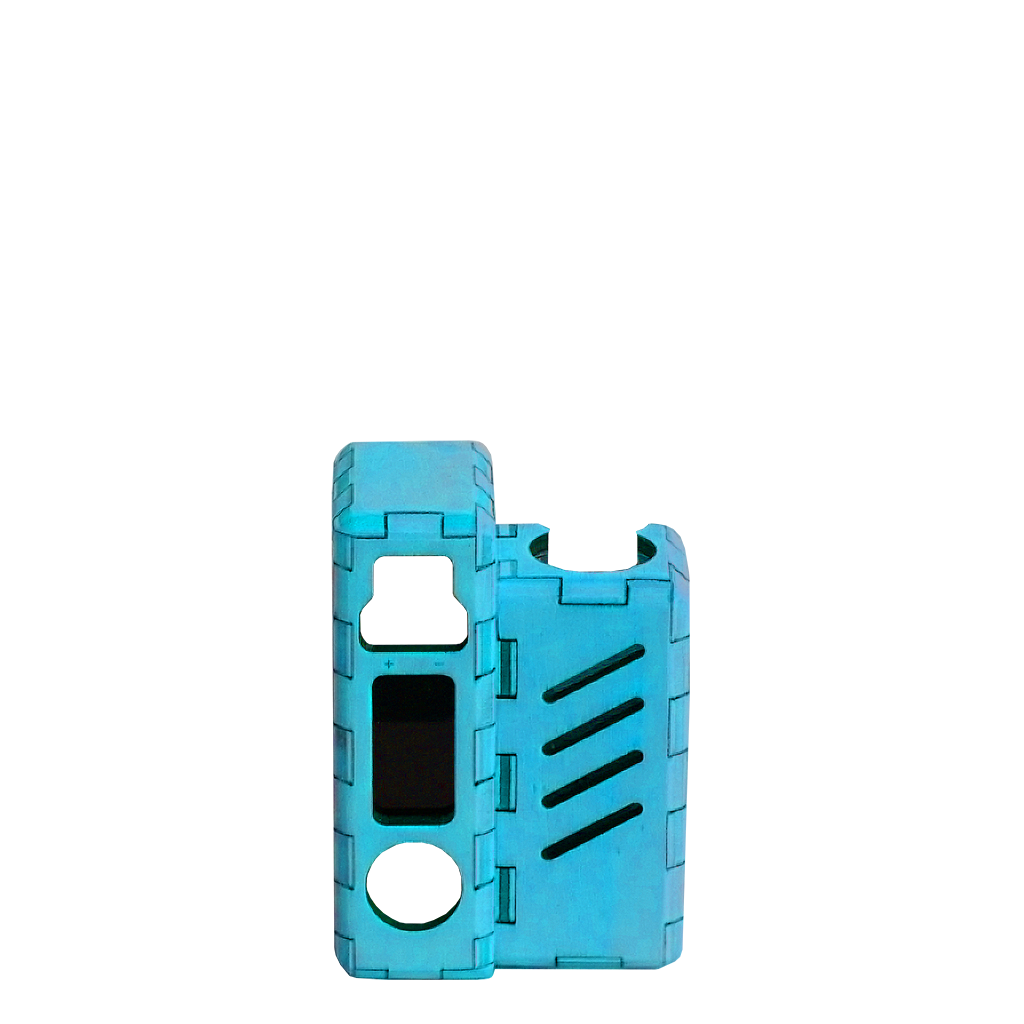
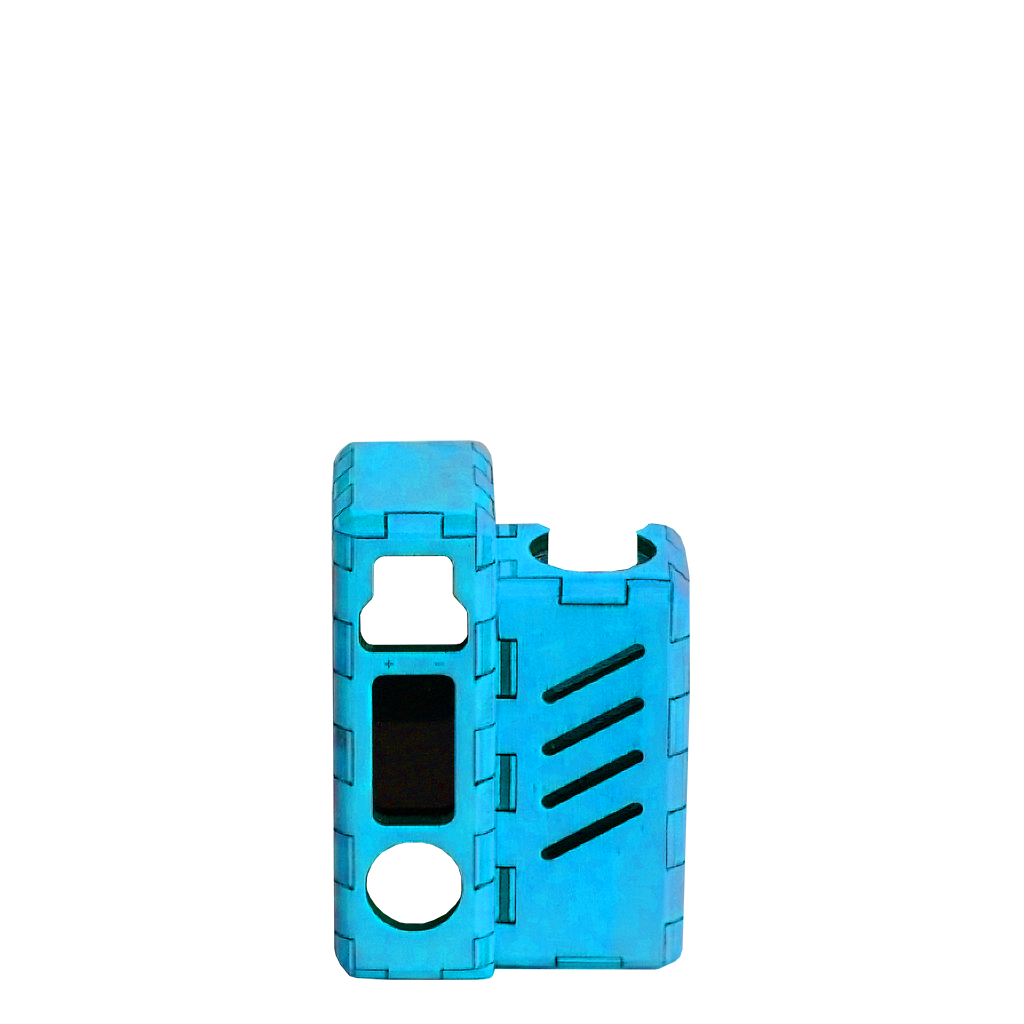
Improved wood colors

Changed region(s): [[0.3125, 0.4062, 0.6875, 0.9688]]

diff --git a/styles.css b/styles.css
@@ -126,30 +126,30 @@ input[type=radio] {
 #vapeColorSliderStyle {
     /* In order: gold, cyan, grey, white, black, red, orange, blue, burgundy */
     background: linear-gradient(to right,
-        #E2C5BC 00%, #E2C5BC 11%,
-        #4DF1DF 11%, #4DF1DF 22%,
-        #4D4D4D 22%, #4D4D4D 33%,
-        #EEEEEE 33%, #EEEEEE 44%,
-        #181818 44%, #181818 55%,
-        #FD0008 55%, #FD0008 66%,
-        #FE7904 66%, #FE7904 77%,
-        #0D5CED 77%, #0D5CED 88%,
-        #6C0004 88%, #6C0004 99%);
+        #FBE5D2 00%, #FBE5D2 11%,
+        #55FEF2 11%, #55FEF2 22%,
+        #7D7D7D 22%, #7D7D7D 33%,
+        #FEFEFE 33%, #FEFEFE 44%,
+        #212322 44%, #212322 55%,
+        #FD564E 55%, #FD564E 66%,
+        #FCA53D 66%, #FCA53D 77%,
+        #0E5DEF 77%, #0E5DEF 88%,
+        #BA3237 88%, #BA3237 99%);
 }
 
 #woodColorSliderStyle {
     /* In order: none, sun yellow, azo orange, permanent cyan, permanent red violet, permanent blue violet, permanent green, marine blue, sap green, oxide black */
     background: linear-gradient(to right,
         #FFFFFF  0%, #FFFFFF 10%,
-        #F4D13A 10%, #F4D13A 20%,
-        #F6872F 20%, #F6872F 30%,
-        #29B3DC 30%, #29B3DC 40%,
-        #C24365 40%, #C24365 50%,
-        #563C66 50%, #563C66 60%,
-        #219969 60%, #219969 70%,
-        #335B69 70%, #335B69 80%,
-        #3D5A41 80%, #3D5A41 90%,
-        #373737 90%, #373737 100%);
+        #FFC01B 10%, #FFC01B 20%,
+        #FF8003 20%, #FF8003 30%,
+        #06B4F5 30%, #06B4F5 40%,
+        #D93D64 40%, #D93D64 50%,
+        #551865 50%, #551865 60%,
+        #16A773 60%, #16A773 70%,
+        #13435C 70%, #13435C 80%,
+        #365B3B 80%, #365B3B 90%,
+        #252525 90%, #252525 100%);
 }
 
 input[type=range] {
